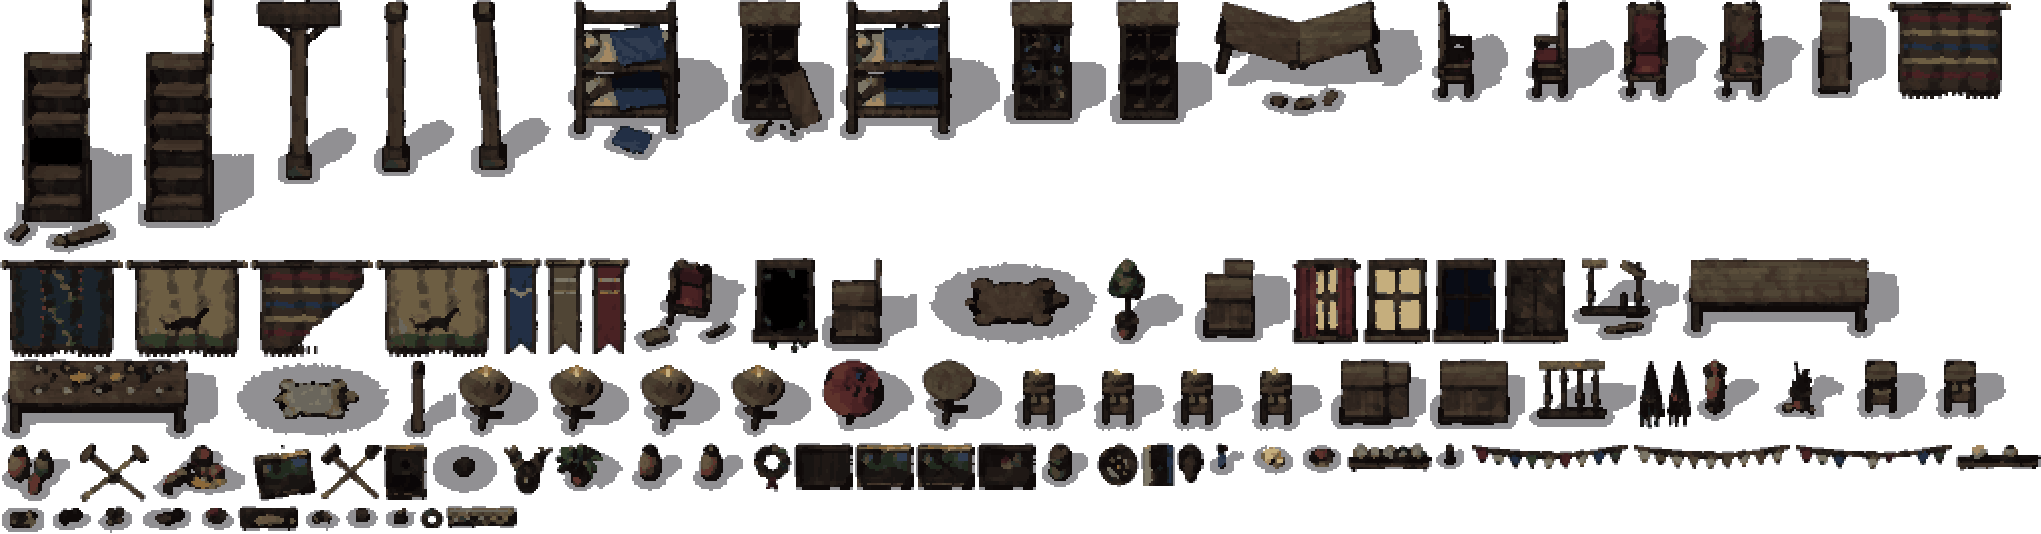
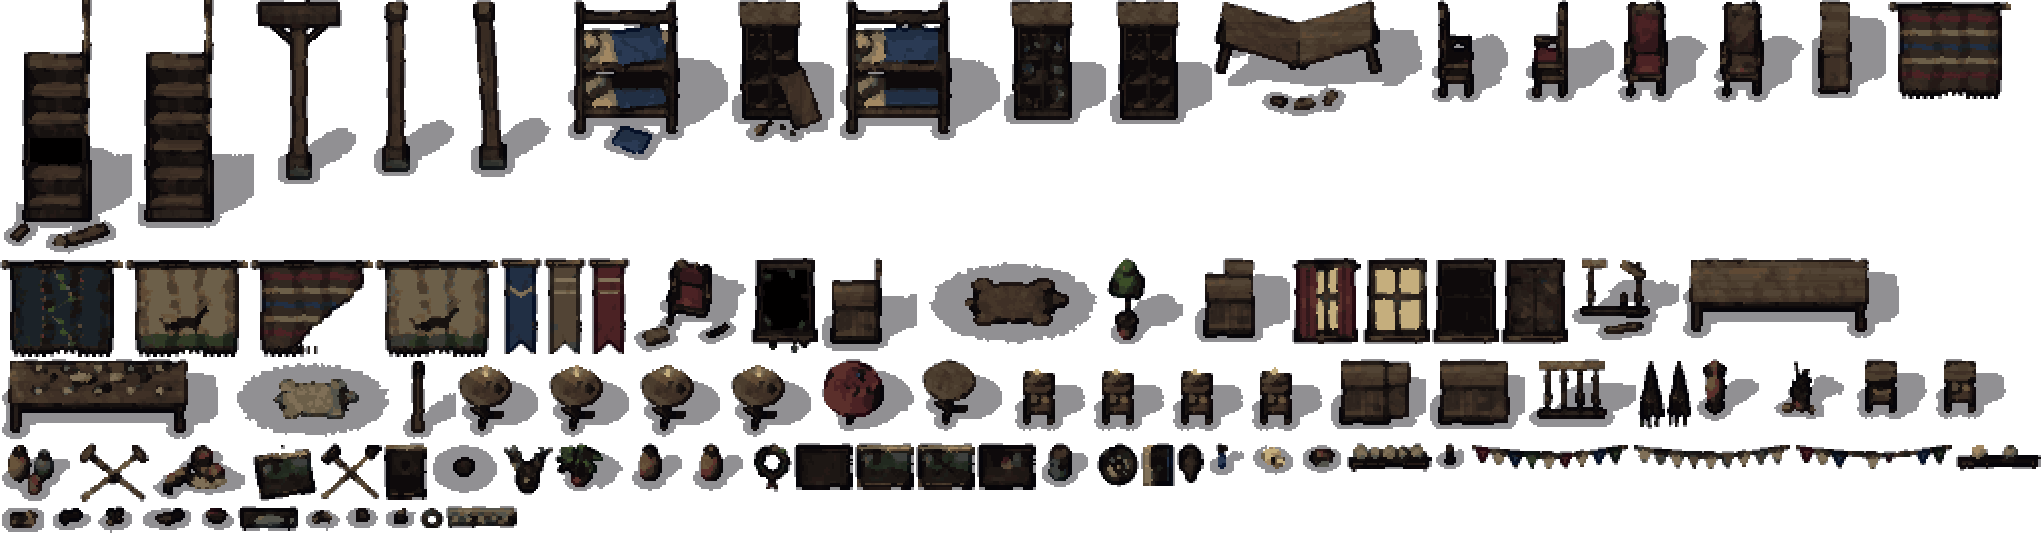
뒤집힌 나무·덤불 음영 방향 바로잡기, 모닥불 테두리 없애고 몸통 어울리게, 구운 검은 테두리를 제 색으로
- sway.gdshader flip_x: 뒤집어 놓은 판은 빛 방향을 되돌려 늘 북서쪽 빛(덤불 한쪽이 통째로 어둡던 원인), 낮은 덤불 덩어리 잘게
- 빛 내는 물건: 깊이를 쓰지 않는 반투명 패스(잘라 내기는 깊이를 써서 외곽선이 붙었다), glow_prop.gdshader로 불꽃은 그대로·몸통은 어둡게
- pixelize_kit recolor_outline: 소품 그림의 검은 테두리를 물체마다 제 색의 어두운 쪽으로, 키트 소품 시트 다시 변환

Claude-Session: https://claude.ai/code/session_01Afqs6ePTR3HpoPjmv2qCtY

diff --git a/tools/pixelize_kit.py b/tools/pixelize_kit.py
@@ -6,6 +6,7 @@
 #   3) 살짝 색 다듬기(채도 조금 올리고 어두운 쪽은 푸르게·밝은 쪽은 따뜻하게)
 #   4) 시트마다 k-평균(Oklab) 팔레트로 색 줄이기
 #   5) 외톨이 점(같은 색 이웃이 없는 점) 지우기 — 가장 많은 이웃 색으로
+#   5b) 소품(이어 까는 시트 아님): 그림에 구운 검은 테두리를 그 물체 제 색의 어두운 쪽으로(recolor_outline — 그림마다 따로)
 #   6) 2배 가장 가까운 점 확대로 원래 크기(게임 코드의 좌표·크기 그대로, 2×2 화소 = 1도트)
 # 바닥·벽처럼 이어 까는 시트는 조각 가장자리를 둘러 감아(wrap) 처리해 이음매가 생기지 않게 한다.
 # 사용: python3 tools/pixelize_kit.py [시트 이름 ...]   (없으면 전부)   필요: numpy, Pillow
@@ -152,6 +153,56 @@ def cleanup(idx, alpha, wrap, passes=2):
     return idx
 
 
+def recolor_outline(rgb, solid, passes=2):
+    # 그림에 구운 검은 테두리 → 그 물체 제 색의 어두운 쪽(sel-out). 윤곽(투명과 맞닿은 불투명 화소) 중
+    # 아주 어두운 화소를, 안쪽 이웃(테두리 아닌 불투명) 색 평균을 Oklab에서 어둡게·살짝 차갑게 한 색으로 바꾼다.
+    # 두께 2화소 테두리를 위해 바꾼 화소와 맞닿은 어두운 화소까지 한 번 더. 테두리 색은 그림마다 따로 정해진다.
+    h, w = solid.shape
+    lab = oklab(rgb.reshape(-1, 3)).reshape(h, w, 3)
+    out = lab.copy()
+    edge = np.zeros_like(solid)
+    nb = [(1, 0), (-1, 0), (0, 1), (0, -1)]
+    def shift(a, dy, dx, fill):
+        r = np.full_like(a, fill)
+        ys, yd = (slice(dy, None), slice(0, h - dy)) if dy >= 0 else (slice(0, h + dy), slice(-dy, None))
+        xs, xd = (slice(dx, None), slice(0, w - dx)) if dx >= 0 else (slice(0, w + dx), slice(-dx, None))
+        r[ys, xs] = a[yd, xd]
+        return r
+    frontier = ~solid
+    for _ in range(passes):
+        touch = np.zeros_like(solid)
+        for dy, dx in nb:
+            touch |= shift(frontier, dy, dx, True)
+        dark = solid & ~edge & touch & (lab[..., 0] < 0.33)
+        if not dark.any():
+            break
+        edge |= dark
+        frontier = frontier | dark
+    if not edge.any():
+        return rgb
+    inner = solid & ~edge
+    acc = np.zeros_like(lab)
+    cnt = np.zeros((h, w))
+    for r in (1, 2):
+        for dy in range(-r, r + 1):
+            for dx in range(-r, r + 1):
+                if max(abs(dy), abs(dx)) != r:
+                    continue
+                m = shift(inner, dy, dx, False)
+                acc += shift(lab, dy, dx, 0.0) * m[..., None]
+                cnt += m
+        if (cnt[edge] > 0).all():
+            break
+    ok = edge & (cnt > 0)
+    mean = acc[ok] / cnt[ok][:, None]
+    col = mean.copy()
+    col[:, 0] = np.maximum(mean[:, 0] * 0.62, 0.12)  # 어둡게(검정까지는 아니게)
+    col[:, 1] *= 0.85
+    col[:, 2] = col[:, 2] * 0.85 - 0.012  # 살짝 차갑게
+    out[ok] = col
+    return np.clip(from_oklab(out.reshape(-1, 3)).reshape(h, w, 3), 0, 1)
+
+
 def frames_of(kit, sheet):
     out = set()
     for a in kit["assets"].values():
@@ -191,6 +242,8 @@ def convert(kit, name):
         solid = (alpha > 0.99).astype(float)
         idx = cleanup(idx, solid, wrap)
         rgb = np.where((alpha > 0.99)[..., None], pal[idx], SHADOW_RGB)
+        if not wrap:
+            rgb = np.where((alpha > 0.99)[..., None], recolor_outline(rgb, alpha > 0.99), SHADOW_RGB)
         rgba = np.concatenate([rgb, alpha[..., None]], -1)
         big = rgba.repeat(2, 0).repeat(2, 1)
         bh, bw = min(big.shape[0], h), min(big.shape[1], w)

diff --git a/CLAUDE.md b/CLAUDE.md
@@ -89,7 +89,8 @@ res://
   도트 화면(scenes/battle/pixel_view.gd): 1칸 = 32도트(그림 1도트 = 세계 1/32유닛 = 화면 2 × 확대 px). 확대는 단계로 끊는다(ZOOM_STEPS 0.5·1·1.5·2 — 그림 1도트 = 화면 정수 칸, 굵고 얇은 도트가 섞이지 않게).
   3D 세계를 그림 도트 절반 크기 화소의 SubViewport에 그려(몬스터만 촘촘한 도트용) 가장 가까운 점으로 확대, 도트 카메라는 그림 도트 격자에 맞추고 끝수만큼 그림을 밀어 떨림 없음,
   깊이 차이 외곽선(pixel_outline.gdshader — 검은 선 대신 윤곽 안쪽 1도트를 제 색의 어두운 쪽으로 곱하는 sel-out, 화소 단위로 재고 두께만 1도트라 촘촘한 몬스터도 고른 굵기.
-  잔풀·꽃·돌멩이 Kit3D.NO_OUTLINE, 빛을 내는 물건(불·초·등·수정) Kit3D.GLOWING은 깊이를 쓰지 않아 외곽선 없음. 컷아웃 부위·몬스터 변환본은 따로 테두리를 두르지 않는다).
+  잔풀·꽃·돌멩이 Kit3D.NO_OUTLINE(반투명 패스), 빛을 내는 물건(불·초·등·수정) Kit3D.GLOWING(glow_prop.gdshader — 불꽃은 그대로, 돌·쇠 몸통은 어둡고 살짝 차갑게)은 깊이를 쓰지 않아 외곽선 없음.
+  컷아웃 부위·몬스터 변환본은 따로 테두리를 두르지 않는다. 키트 그림에 구운 검은 테두리는 변환 때 그 물체 제 색의 어두운 쪽으로 바꾼다(pixelize_kit recolor_outline — 그림마다 따로, 검정 고정 아님)).
   바닥·물·자연 지형 바위는 그림을 화면 줄에 맞춰 입힌다(바닥 세로 = z × sin, 바위 = 화면 방향 투영) — 그림 1줄 = 화면 1도트 줄. 키트 그림은 도트 변환본 assets/pixel_kit(tools/pixelize_kit.py — 조각마다 쿠와하라 → 반 크기 → 시트 팔레트 → 외톨이 점 지우기 → 2배 확대, 원본과 같은 크기라
   좌표 그대로, DungeonKit.art_dir로 바꿔 낌). 그림 원본을 고치면 변환을 다시 돌린다. 화면 단계 팔레트+Bayer 디더(pixel_post.gdshader, assets/pixel/palette.png)는 기본 꺼짐.
   원래 카메라는 광선 고르기·화면 투영용으로 남고 본 화면 3D 그리기만 끈다. UI는 원래 해상도. 끄기·조절 `--pixel=<1도트 px, 0 = 끔> --pixel_ss --pixel_art=0(원본 그림) --pixel_palette=1 --pixel_outline=0`.
@@ -119,6 +120,7 @@ res://
   잎 색 = 덩어리 본색(원래 그림 둘레 평균) × 덩어리 공 음영을 잎 가운데에서 잰 5단(북서쪽 빛 — 경계가 잎 모양으로 끊김), 잎 아래·오른쪽 끝 도트 그늘·위·왼쪽 끝 밝은 테,
   밝은 잎 따뜻하게·그늘 잎 차갑게, 잎 사이·덩어리 사이 속 그늘. 바람: 덩어리마다 다른 위상으로 도트 단위 흔들림(위쪽일수록 크게) + 잎마다 1도트 떨림 + 돌풍 때 잎이 뒤집혀 밝게,
   판마다 잎 셋이 수관에서 떨어져 흔들리며 흩날린다. 판 가장자리에 잘리는 잎은 넣지 않음. 잎이 적은 자리(이끼 낀 줄기)는 덩어리 아님.
+  뒤집어 놓은 판(flip)은 빛 방향 계산을 되돌린다(flip_x — 늘 북서쪽 빛). 낮고 넓은 덤불은 덩어리를 잘게(너비 19%).
   가장 밝은 단은 잎 걸러 하나씩·덩어리마다 한 단씩 다르게(위쪽이 한 덩이로 뭉치지 않게). Kit3D.leaf_mode: 넓은 잎(LEAFY) 1, 바늘잎(NEEDLE 소나무 — 가늘고 긴 잎이 가지처럼 바깥·아래로, 작은 덩어리) 2,
   단풍(LEAF_ANY autumn)은 초록 아닌 잎도 +0.5, 눈 덮임·마른·죽은 변형(LEAF_SKIP)은 원래 그림. 열매·꽃(잎 아닌 채도 높은 화소)은 잎 위에 그대로.
   덩어리 음영 폭은 좁게(대부분 가운데 단) + 잎마다 한 단씩 오르내림(40%) + 잎마다 제 왼쪽 위 절반 한 단 밝게 — 한쪽이 통째로 밝거나 어두운 넓은 면이 생기지 않게.
